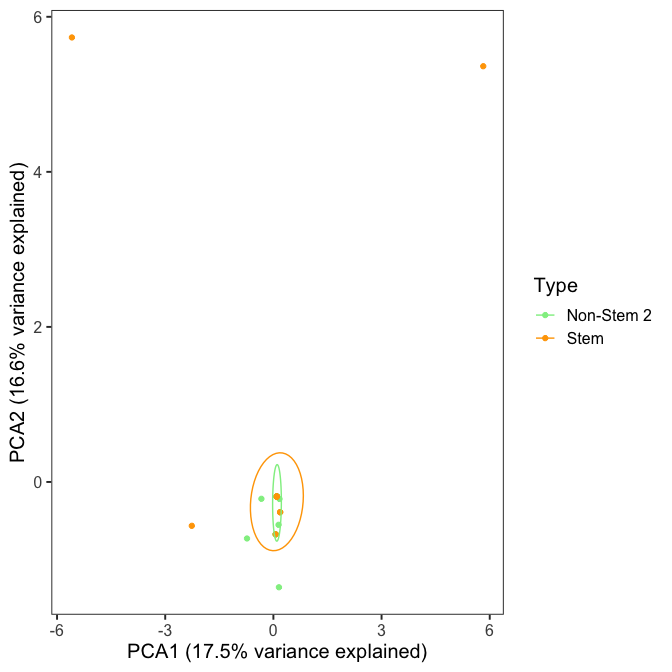
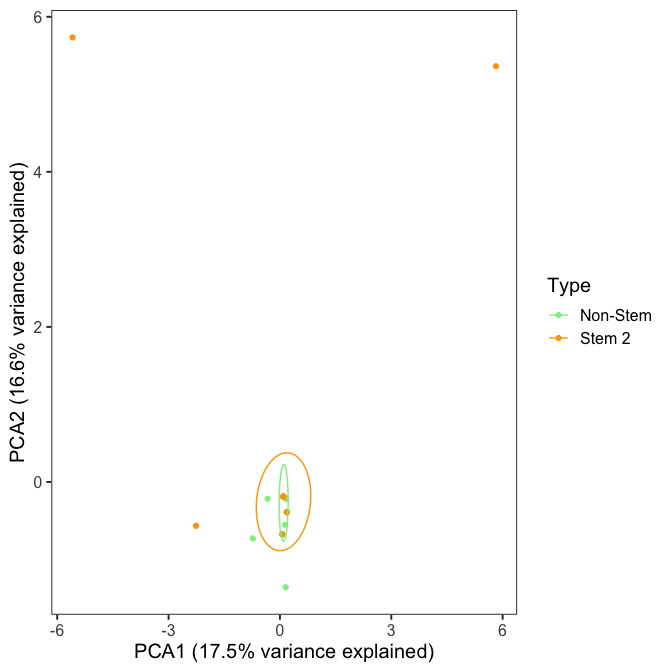
Modify labesls and colors in CRC12

diff --git a/reports/CRC12.md b/reports/CRC12.md
@@ -24,7 +24,7 @@ popdata <- read.table(here::here("data/CRC12_group_FIXED_noLgr5.list"), h=T, sep
 color_anno = list( Sample = c("Bulk"="black", "Single-Cell"="grey"), #Change as needed
                    Tissue = c("Tumor"="red", "Normal"="blue"),
                    Location = c("Central"="brown", "Middle"="brown", "Distal"="yellow", "Proximal"="darkgreen"),
-                   Cell_type = c("Non-Stem 1"="lightblue", "Non-Stem 2"="lightgreen", "Stem"="orange", "ND"="white")
+                   Cell_type = c("Stem 1"="lightblue", "Non-Stem"="lightgreen", "Stem 2"="orange", "ND"="white")
 )
 
 ha1 <- rowAnnotation(df = popdata[,-1], col = color_anno, show_annotation_name = F, na_col = "white")
@@ -78,7 +78,7 @@ tab_pvalues
     ##   Group               p_values
     ##   <chr>                  <dbl>
     ## 1 Tissue                 0.976
-    ## 2 Region by Tissue       0.439
+    ## 2 Region by Tissue       0.438
     ## 3 Cell type by Tissue   NA
 
 # Pairwise:
@@ -107,16 +107,16 @@ for (i in 1:(ntt-1) ){
         }
 ```
 
-    ## Normal_Distal  -  Normal_Proximal :  -0.01568      (P= 0.3949 )  
-    ## Normal_Distal  -  Tumor_Distal :  -0.02911     (P= 0.4596 )  
-    ## Normal_Distal  -  Tumor_Middle :  -0.1221      (P= 0.8512 )  
-    ## Normal_Distal  -  Tumor_Proximal :  -0.122     (P= 0.912 )  
-    ## Normal_Proximal  -  Tumor_Distal :  0.02306    (P= 0.2685 )  
-    ## Normal_Proximal  -  Tumor_Middle :  0.1362     (P= 0.1504 )  
-    ## Normal_Proximal  -  Tumor_Proximal :  0.02877      (P= 0.3293 )  
-    ## Tumor_Distal  -  Tumor_Middle :  0.001151      (P= 0.3412 )  
-    ## Tumor_Distal  -  Tumor_Proximal :  0.2151      (P= 0.0111 )  
-    ## Tumor_Middle  -  Tumor_Proximal :  -0.1382     (P= 0.8792 )
+    ## Normal_Distal  -  Normal_Proximal :  -0.01568      (P= 0.3878 )  
+    ## Normal_Distal  -  Tumor_Distal :  -0.02911     (P= 0.4679 )  
+    ## Normal_Distal  -  Tumor_Middle :  -0.1221      (P= 0.8496 )  
+    ## Normal_Distal  -  Tumor_Proximal :  -0.122     (P= 0.9072 )  
+    ## Normal_Proximal  -  Tumor_Distal :  0.02306    (P= 0.2599 )  
+    ## Normal_Proximal  -  Tumor_Middle :  0.1362     (P= 0.1418 )  
+    ## Normal_Proximal  -  Tumor_Proximal :  0.02877      (P= 0.3163 )  
+    ## Tumor_Distal  -  Tumor_Middle :  0.001151      (P= 0.3485 )  
+    ## Tumor_Distal  -  Tumor_Proximal :  0.2151      (P= 0.009499 )  
+    ## Tumor_Middle  -  Tumor_Proximal :  -0.1382     (P= 0.8799 )
 
 ## Tissue/Type
 
@@ -142,16 +142,16 @@ for (i in 1:(ntt-1) ){
         }
 ```
 
-    ## Normal_Non-Stem 1  -  Normal_Non-Stem 2 :  0.03009     (P= 0.2741 )  
-    ## Normal_Non-Stem 1  -  Normal_Stem :  0.0755    (P= 0.1824 )  
-    ## Normal_Non-Stem 1  -  Tumor_Non-Stem 2 :  -0.2743      (P= 0.9888 )  
-    ## Normal_Non-Stem 1  -  Tumor_Stem :  0.03636    (P= 0.2321 )  
-    ## Normal_Non-Stem 2  -  Normal_Stem :  -0.1119       (P= 0.8103 )  
-    ## Normal_Non-Stem 2  -  Tumor_Non-Stem 2 :  -0.1036      (P= 0.8577 )  
-    ## Normal_Non-Stem 2  -  Tumor_Stem :  0.1145     (P= 0.1261 )  
-    ## Normal_Stem  -  Tumor_Non-Stem 2 :  -0.1646    (P= 0.9475 )  
-    ## Normal_Stem  -  Tumor_Stem :  0.2131       (P= 0.0354 )  
-    ## Tumor_Non-Stem 2  -  Tumor_Stem :  -0.01891    (P= 0.5678 )
+    ## Normal_Non-Stem  -  Normal_Stem 1 :  0.03009       (P= 0.2655 )  
+    ## Normal_Non-Stem  -  Normal_Stem 2 :  -0.1119       (P= 0.8066 )  
+    ## Normal_Non-Stem  -  Tumor_Non-Stem :  -0.1036      (P= 0.8537 )  
+    ## Normal_Non-Stem  -  Tumor_Stem 2 :  0.1145     (P= 0.1306 )  
+    ## Normal_Stem 1  -  Normal_Stem 2 :  0.0755      (P= 0.1862 )  
+    ## Normal_Stem 1  -  Tumor_Non-Stem :  -0.2743    (P= 0.991 )  
+    ## Normal_Stem 1  -  Tumor_Stem 2 :  0.03636      (P= 0.2321 )  
+    ## Normal_Stem 2  -  Tumor_Non-Stem :  -0.1646    (P= 0.942 )  
+    ## Normal_Stem 2  -  Tumor_Stem 2 :  0.2131       (P= 0.036 )  
+    ## Tumor_Non-Stem  -  Tumor_Stem 2 :  -0.01891    (P= 0.5566 )
 
 # Copy Number (fastmitocalc):
 
